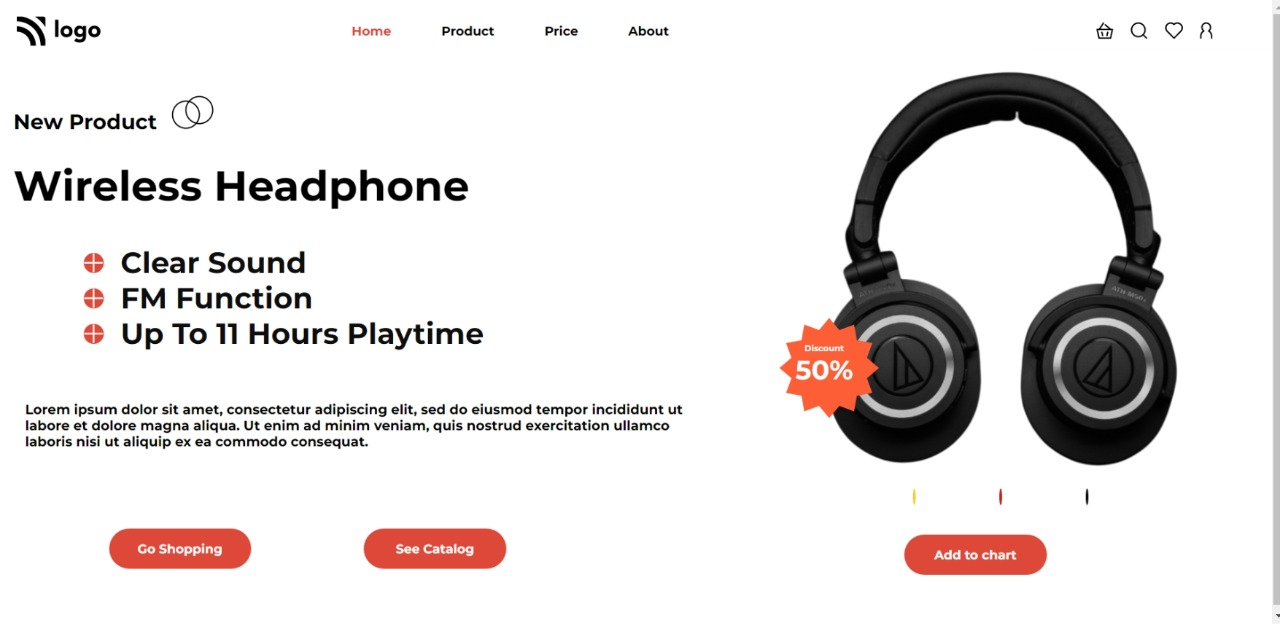
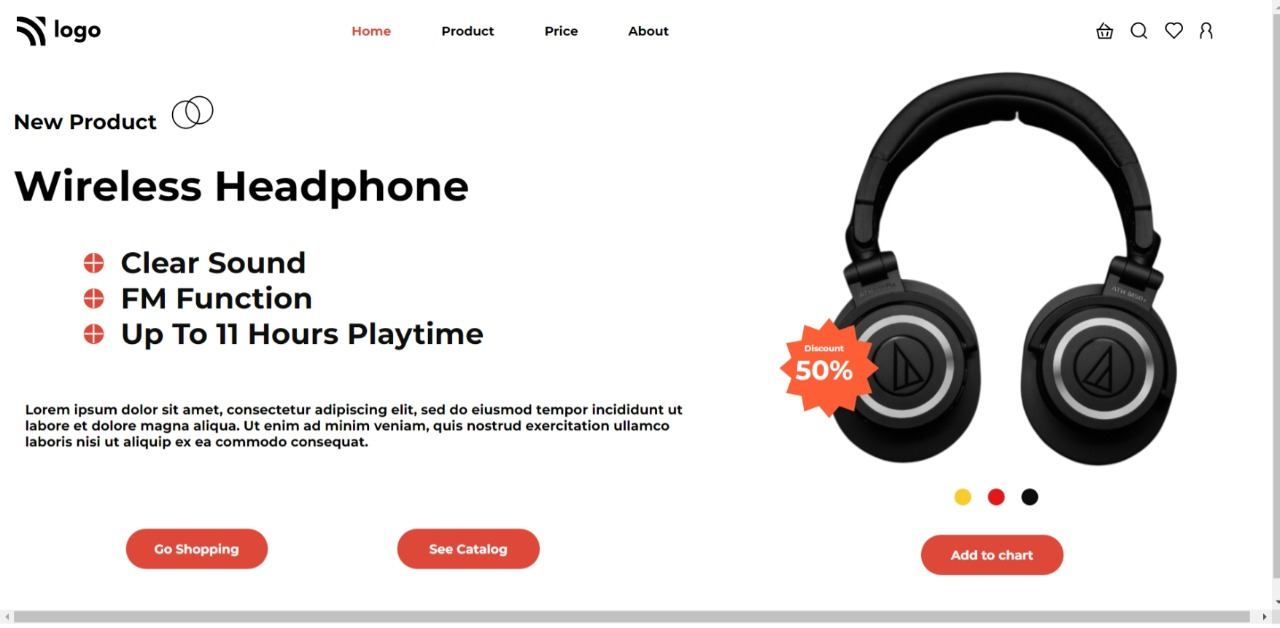
I added one more file of readme.md and also i did some modification in html button styling through css box shadow property

diff --git a/css/index.css b/css/index.css
@@ -101,7 +101,7 @@ span{
   font-size: 15px;
 }
 .right-section{
-    width: 400px;
+    width: 300px;
     height: 90vh;
     position: relative;
     top: -600px;
@@ -127,10 +127,13 @@ span{
     display: flex;
     margin-left: 90px;
 }
+.dots{
+    margin-left: 170px;
+}
 .dot{
     height: 20px;
     width: 20px;
-    margin: 0px 50px;
+    margin-left: 20px;
     border-radius: 50%;
 }
 .yellow-dot{
@@ -144,6 +147,11 @@ span{
 }
 .action-btn{
     margin-top: 35px;
-    margin-left: 130px;
+    margin-left: 150px;
     background-color:  #DE4839 ;
+    transition: 0.5s;
+}
+.action-btn:hover{
+    transform: scale(1.2);
+    box-shadow: 2px 2px 2px 5px #ffa500 , -2px -2px 2px 5px #ffa500 ;
 }

diff --git a/readme.md b/readme.md
@@ -1,5 +1,5 @@
 # Project-07-  Headphone Sales Web Page
- ## Hey there ,  I am Amarjeet 
+ ##  Hey there ,  I am Amarjeet 
  I have built a template of HTML and CSS project using my core css skills 
  
  ![](https://img.shields.io/badge/Project-07-green)
@@ -16,3 +16,4 @@
  ## What I learned from this project 
  - First of all I explore more about image adjustment on the web page.
  - How change color of any icon like + in my page.
+ - Also I explore about box-shadow and how to aply box-shadow to all side of a box.
